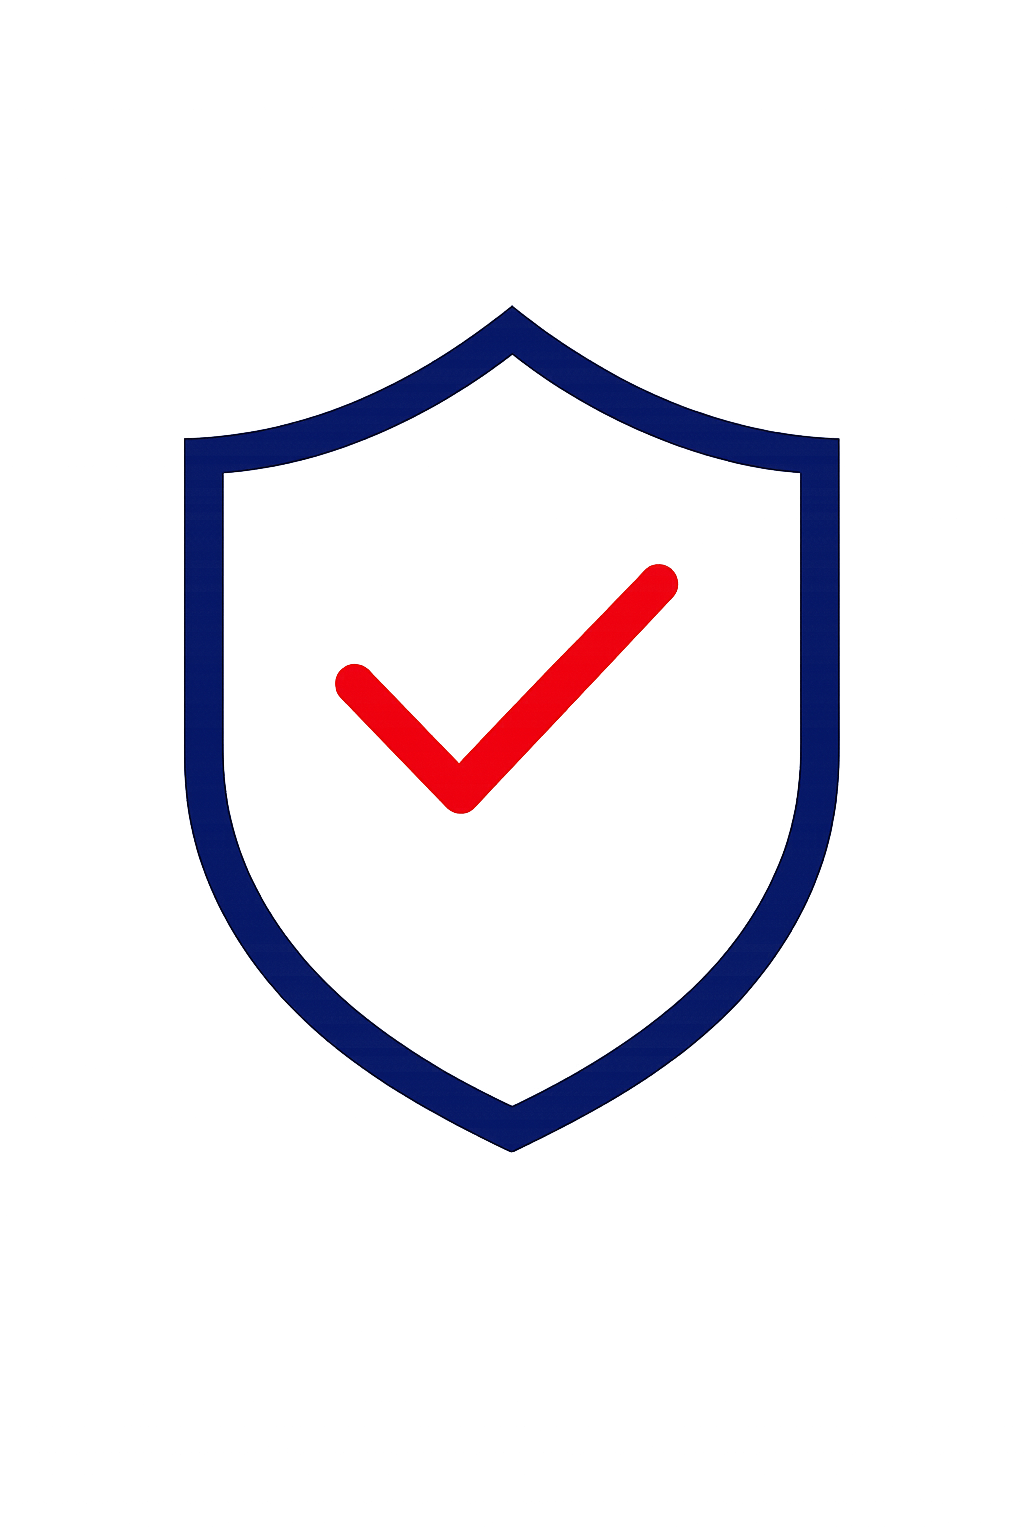
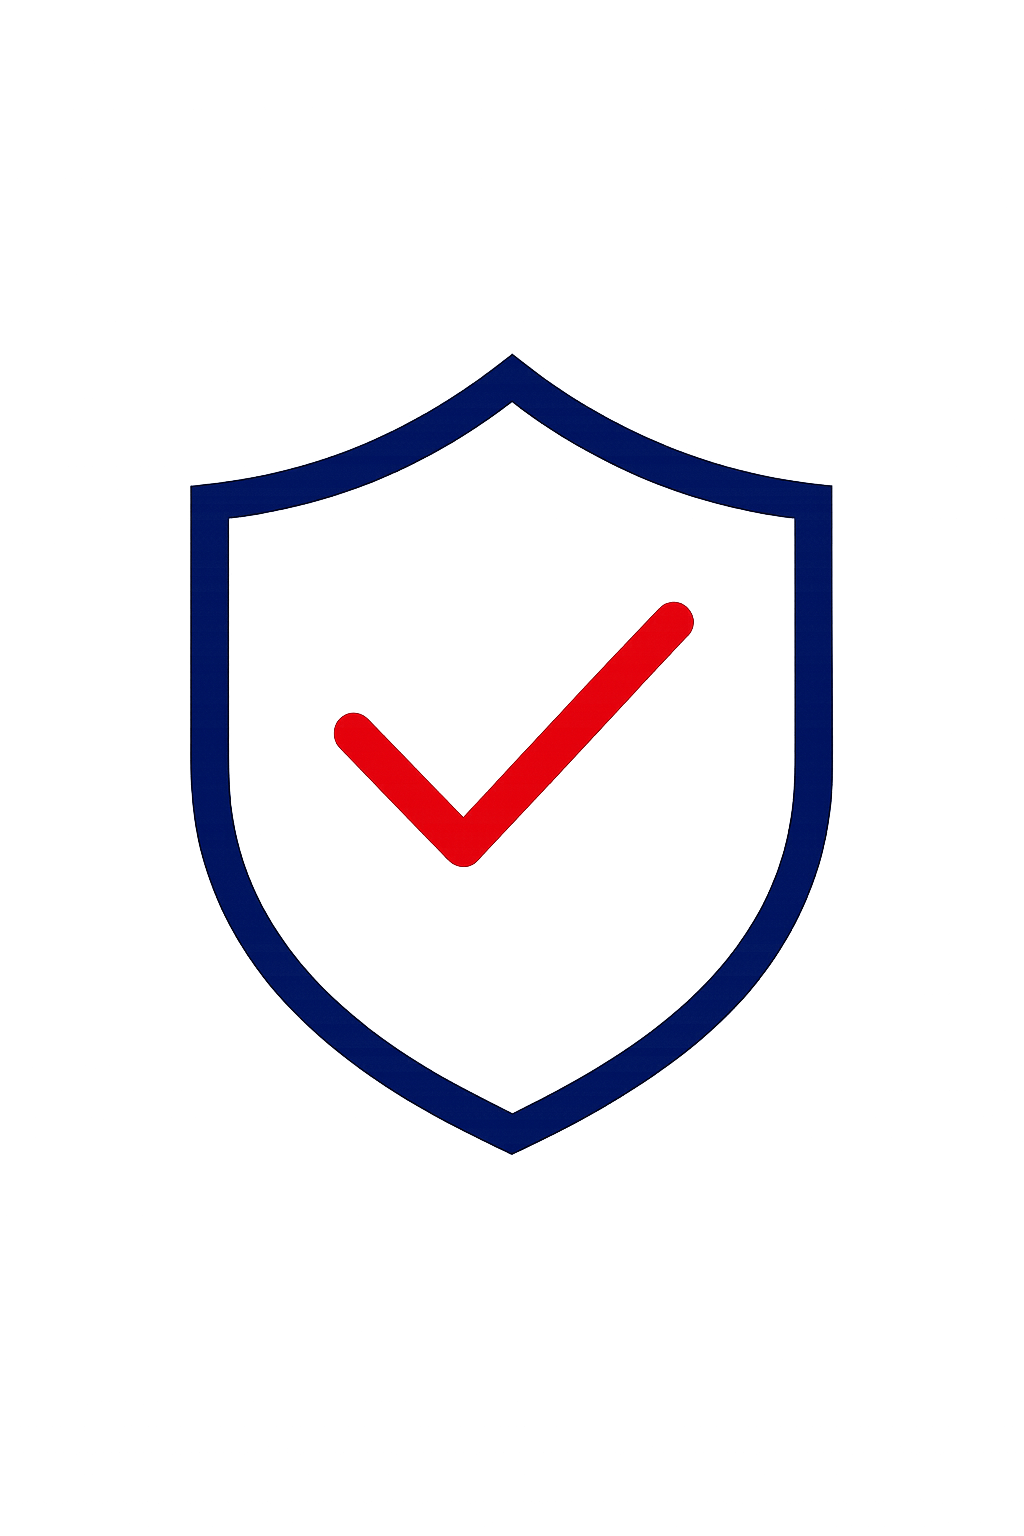
foot

diff --git a/styles/indexStyle.css b/styles/indexStyle.css
@@ -186,18 +186,20 @@ h1 {
     align-items: center;
     width: 81.3rem;
     margin-left: 7rem;
+    height: 6rem;
 }
 
 .service_footer_head {
     font-size: 1.1rem;
-    font-weight: 600;
+    font-weight: 650;
     color: #00004a;
     margin-bottom: 0.1rem;
+    margin-top: 0.9rem;
 }
 
 .service_footer_text {
     font-size: 0.95rem;
-    font-size: 450;
+    font-weight: 470;
     color: #00004a;
 }
 
@@ -208,8 +210,8 @@ h1 {
 }
 .service_footer_icon {
     margin-left: 2rem;
-    margin-right: 1rem;
-    width: 4rem;
-    height: 6rem;
+    margin-right: 0.8rem;
+    width: 4.667rem;
+    height: 7.2rem;
     flex-shrink: 0;
 }
